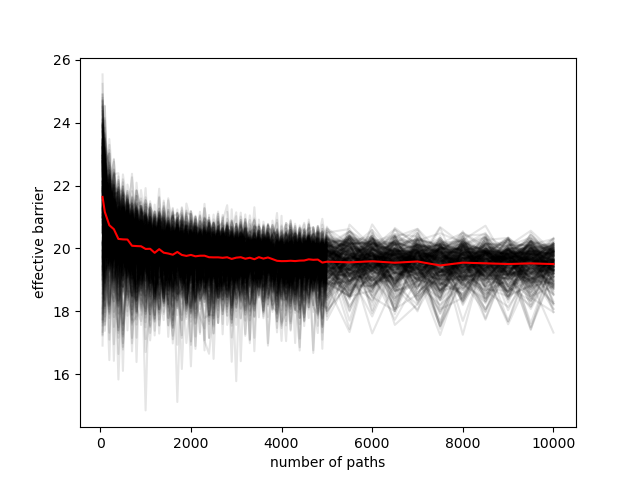
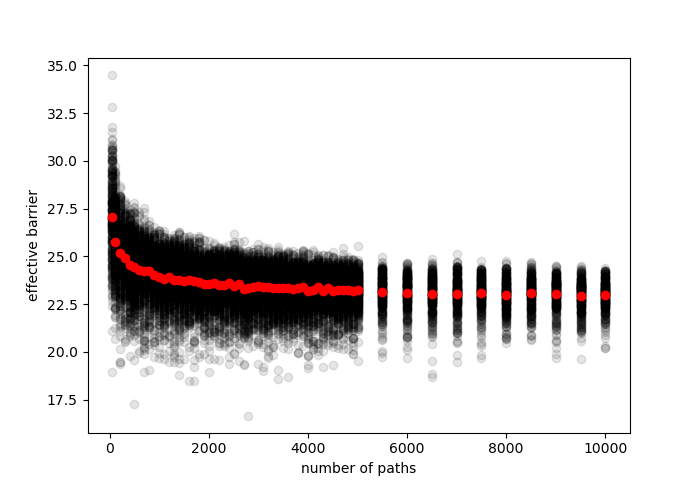
run convergence for exponential barriers with P = mean(P_i)

diff --git a/mpi_run_analyses.py b/mpi_run_analyses.py
@@ -179,7 +179,7 @@ if __name__ == "__main__":
     dS_sigma = 3/300
 
     # normal distributions
-    path_convergence(iters, dH_barrier, dS_barrier, dH_sigma, dS_sigma, dist='norm', T=T, multi=multi)
+    # path_convergence(iters, dH_barrier, dS_barrier, dH_sigma, dS_sigma, dist='norm', T=T, multi=multi)
 
     # exponential distributions
     path_convergence(iters, dH_barrier, dS_barrier, dH_sigma, dS_sigma, dist='exp', T=T, multi=multi)
